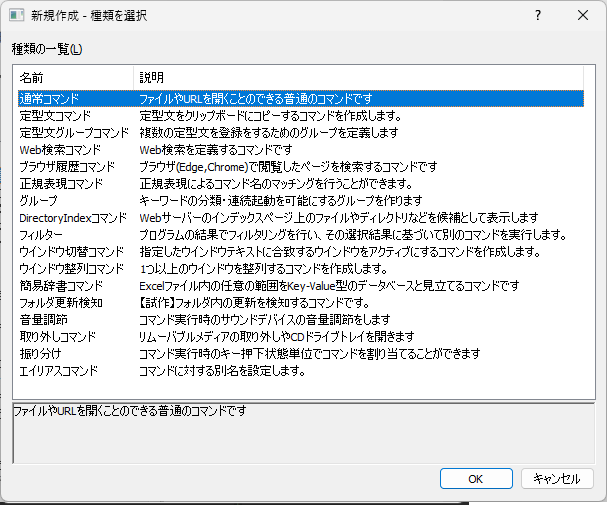
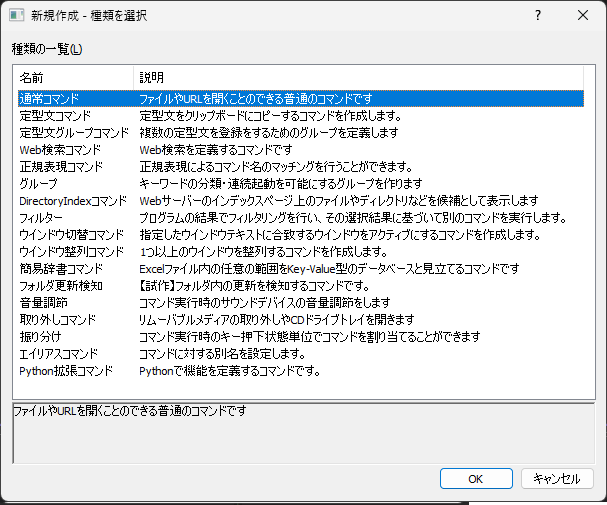
docs : #194 ドキュメントを追加

diff --git a/doc/files/fragment/PyExtensionEdit.html b/doc/files/fragment/PyExtensionEdit.html
@@ -1,0 +1,11 @@
+<!DOCTYPE html>
+<html xmlns="http://www.w3.org/1999/xhtml" lang xml:lang>
+<head>
+  <meta charset="utf-8" />
+	<meta http-equiv="refresh" content="0;URL=../manuals/user-command/py_extension.html">
+  <title>Manual</title>
+  <style>
+</head>
+<body>
+</body>
+</html>

diff --git a/doc/manuals/source/user-command/py_extension.md b/doc/manuals/source/user-command/py_extension.md
@@ -1,0 +1,258 @@
+# Python Extension Command
+
+コマンドを実行時の動作をPythonスクリプトで記述できるコマンド
+
+スクリプトの内容をコマンドの設定としてアプリケーション内に保存しておけるため、スクリプト内容をアプリ内で一元管理できる。
+
+Python 3.12以降が必要
+
+## UseCase
+
+- アプリ独自の機能として、画面操作に関するAPIを提供しており、ちょっとした自動操作の用途で使うことができる
+  - 現在はキーボード入力のみ。マウス入力も今後実装予定
+- アプリ設定で指定したPython環境でのライブラリのAPIを呼び出すことができるので、それらを利用して様々な処理を実行できる
+
+## Description
+
+![](../image/user-command/py_extension/commandsetting.png)
+
+
+- `コマンドの名前`  
+入力画面からコマンドを実行するためのキーワード
+- `説明`  
+何のためのコマンドかを記載しておくための説明欄
+- `スクリプト` 
+実行する処理の内容をPythonスクリプトとして記述する
+- `構文チェック`   
+`スクリプト`に入力した内容が構文的に正しいかをチェックする  
+(チェックして正しいことを確認しないと設定を保存できない)
+- `ホットキー`  
+コマンドを呼び出すホットキーを定義する
+
+
+## Remarks
+
+- アプリ設定の`拡張機能`>`Pythonを利用する拡張機能の設定`で設定したPython環境の機能が利用できる
+  - その環境に入っているライブラリを利用することが可能
+
+- そのほかにアプリ独自のライブラリを提供する(後述)
+  - キー入力やウインドウ関連の機能を提供する
+    - もちろん、他のPythonライブラリを使うこともできる
+
+## Library Reference
+
+アプリ独自の機能として、以下のクラスを提供する。  
+これらは`import`しなくても利用できる。
+
+### key module
+
+キーボード入力に関する機能を提供する。
+
+- down  
+キーを押す
+- up  
+キーを放す
+- press  
+キー入力をする(押して放す)
+
+### Example
+
+例:Win+Shift-Sキーを押下する(結果、スクリーンキャプチャが起動する) 
+
+```
+key.down('win')
+key.down('shift')
+key.down('s')
+
+key.up('s')
+key.up('shift')
+key.up('win')
+```
+
+例:'hello'を入力する
+```
+key.press(['h','e','l','l','o'])
+```
+
+### サポートしているキー
+
+- ` `
+  - スペース
+- `!`
+- `#`
+- `$`
+- `%`
+- `&`
+- `'`
+- `(`
+- `)`
+- `*`
+- `+`
+- `,`
+- `-`
+- `.`
+- `/`
+- `0`
+- `1`
+- `2`
+- `3`
+- `4`
+- `5`
+- `6`
+- `7`
+- `8`
+- `9`
+- `:`
+- `;`
+- `<`
+- `=`
+- `>`
+- `?`
+- `@`
+- `[`
+- `\"`
+- `\\`
+- `\\n`
+- `\\r\\n`
+- `\\t`
+- `]`
+- `^`
+- `_`
+- `` ` ``
+- `a`
+- `alt`
+- `apps`
+- `b`
+- `backspace`
+- `c`
+- `capslock`
+- `convert`
+- `ctrl`
+- `d`
+- `del`
+- `delete`
+- `down`
+- `e`
+- `end`
+- `enter`
+- `esc`
+- `escape`
+- `f10`
+- `f11`
+- `f12`
+- `f13`
+- `f14`
+- `f15`
+- `f16`
+- `f17`
+- `f18`
+- `f19`
+- `f20`
+- `f21`
+- `f22`
+- `f23`
+- `f24`
+- `f2`
+- `f3`
+- `f4`
+- `f5`
+- `f6`
+- `f7`
+- `f8`
+- `f9`
+- `f`
+- `g`
+- `h`
+- `home`
+- `i`
+- `insert`
+- `j`
+- `k`
+- `kana`
+- `kanji`
+- `l`
+- `left`
+- `m`
+- `n`
+- `nonconvert`
+- `num0`
+- `num1`
+- `num2`
+- `num3`
+- `num4`
+- `num5`
+- `num6`
+- `num7`
+- `num8`
+- `num9`
+- `numlock`
+- `o`
+- `p`
+- `pagedown`
+- `pageup`
+- `pause`
+- `printscreen`
+- `q`
+- `r`
+- `return`
+- `right`
+- `s`
+- `scrolllock`
+- `shift`
+- `t`
+- `tab`
+- `u`
+- `up`
+- `v`
+- `w`
+- `win`
+- `x`
+- `y`
+- `z`
+- `{`
+- `|`
+- `}`
+- `~`
+
+### win module
+
+ウインドウに関する機能を提供する。
+
+- find  
+ウインドウを取得する
+
+
+#### Example
+
+例:ウインドウを探す
+
+```
+# メモ帳のウインドウを得る
+w = win.find(class_name="Notepad")
+# 最大化
+w.maximize()
+# 最小
+w.minimize()
+# 元に戻す
+w.restore()
+# 非表示
+w.hide()
+# 表示
+w.show()
+# 前面に表示
+w.activate()
+# 移動
+w.move(x=0, y=0)
+# リサイズ
+w.resize(width=250, height=200)
+# 移動とリサイズ
+w.setpos(x=100,y=100,width=400,height=200)
+
+```
+
+## Per-Key Behavior
+
+|押下キー|動作|
+|--|--|
+|`Enter`|スクリプトを実行する|
+

diff --git a/doc/manuals/source/window/app-settings.md b/doc/manuals/source/window/app-settings.md
@@ -423,14 +423,14 @@ mp3ファイルのみ指定可能(他の音声ファイルには非対応)
 
 ![](../image/setting6.png)
 
-- `簡易電卓機能`>`有効にする`
-  - チェックすると、入力画面に入力したテキストを数式として評価して、その計算結果を表示する  
+- `Pythonを利用する拡張機能の設定`
+  - `Python DLLへのパス`  
+PCにインストールした`Python3`の本体DLLへのパスを指定する  
+(Python3.12以降の`python3.dll`へのパスを指定する)
+  - `簡易電卓機能を有効にする`  
+チェックすると、入力画面に入力したテキストを数式として評価して、その計算結果を表示する  
 ![](../image/calculator.png)
   - `Enter`キーを押すと、計算結果をクリップボードにコピーする
-  - [Python3](https://www.python.org/)が必要
-- `簡易電卓機能`>`Python DLLのパス`
-  - PCにインストールした`Python3`の本体DLLへのパスを指定する
-
 - `システム関連の機能`
   - `コントロールパネル項目を候補として表示する`
     - チェックすると、コントロールパネル項目を候補として表示し、それを実行したら、該当するコントロールパネル項目を開く  

diff --git a/doc/manuals/source/others/3rdlibs.md b/doc/manuals/source/others/3rdlibs.md
@@ -21,14 +21,13 @@
   - アプリ実行時に上記ライブラリを直接利用するものではない
 
 - [Python3](https://www.python.org/)
-  - 簡易電卓機能を実現するために使用している
+  - Python拡張コマンド/簡易電卓機能を実現するために使用している
 
 - [SQLite3](https://www.sqlite.org/)
   - Windows標準搭載の`winsqlite3.dll`を利用している
 
 - [Everything SDK](https://www.voidtools.com/support/everything/sdk/)
   - `Everything`が公開しているSDKのソースコードをそのままランチャー本体に組み込んでいる
-  - 現在はEverything関連機能を無効化している。そのうち再実装するつもり
 
 - [RE2](https://github.com/google/re2)
   - コマンドの絞り込みの際の正規表現エンジンとして利用している

diff --git a/doc/manuals/source/user-commands.md b/doc/manuals/source/user-commands.md
@@ -24,5 +24,6 @@ user-command/volume.md
 user-command/eject.md
 user-command/split.md
 user-command/alias.md
+user-command/py_extension.md
 ```
 
